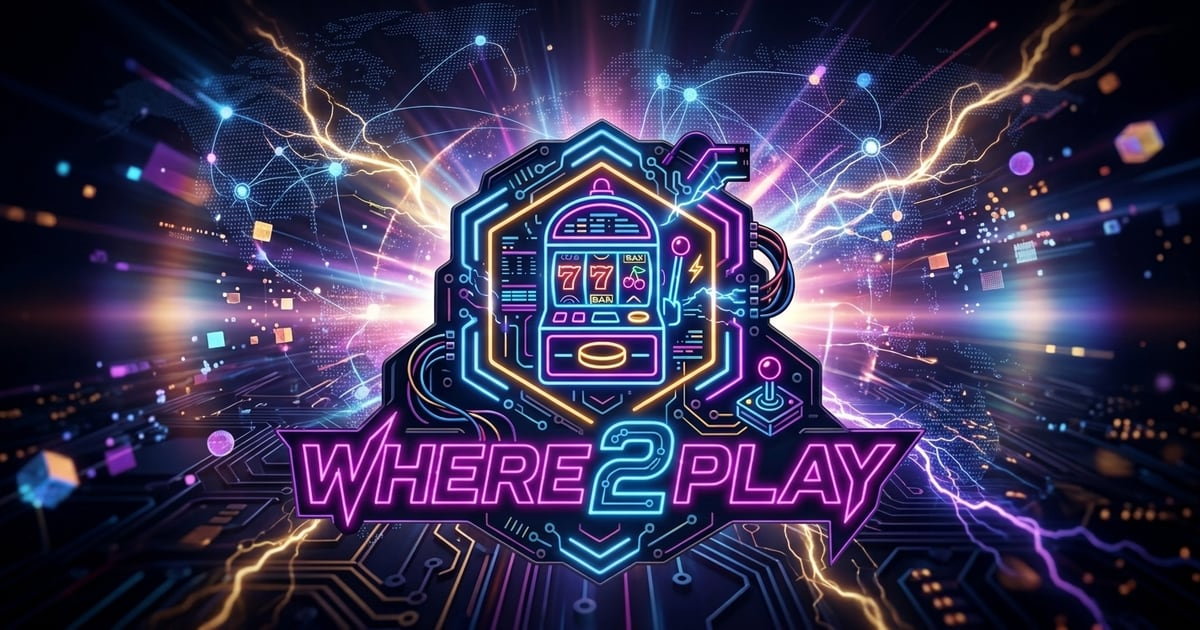
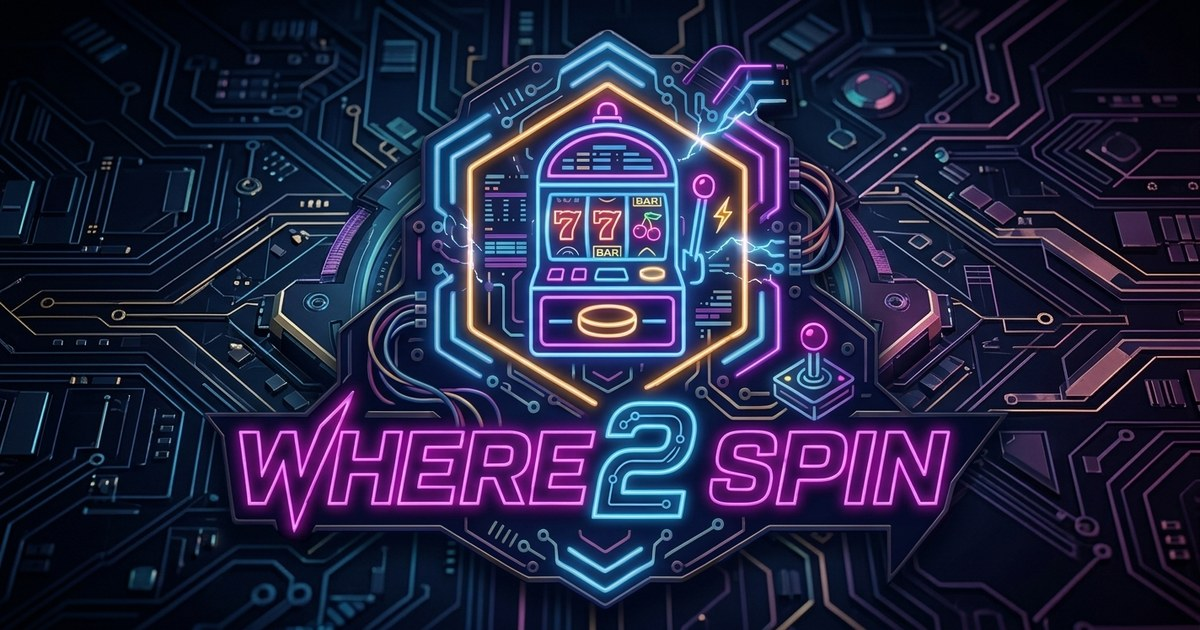
fix(captures): refuser les titres que l'OCR n'a pas su lire, et poser la marque
Un titre de capture était retenu dès qu'une ligne du panneau était en
capitales, sans vérifier que c'étaient des mots. 25 titres sur 17 des 45
pages en ligne étaient du charabia — « Qganvie rullo », « Mve nvlld »,
« K 9 7 a xr fo » — affichés au lecteur et recopiés dans l'attribut alt des
images, donc dans la surface SEO.

Un titre n'est plus retenu que si chacun de ses mots appartient au
vocabulaire des en-têtes Pragmatic ; sinon on retombe sur « Game rules,
page N », qui a le mérite d'être vrai. Les chiffres sont refusés aussi : ils
trahissent une ligne de contenu happée au vol, pas un intitulé. Les 45 fiches
déjà publiées ont été repassées au même filtre en base.

Troisième habillage Pragmatic : les classiques historiques n'ont pas de
panneau de règles du tout, leur table de gains est peinte à côté des
rouleaux et leur RTP n'est affiché nulle part. Ils sont reconnus à leur barre
de commandes et traités comme un résultat acquis, au lieu de repartir en
file échouer à chaque campagne. L'adaptateur renvoyait bien le cas mais le
script ne le distinguait pas de zéro — la détection était restée sans effet.

Les trois visuels de la marque where2spin sont posés : logo transparent
(détourage vérifié sur le fond réel du site, pas de halo), icône d'onglet,
icône iOS sur fond sombre — Apple ne gère pas la transparence et le néon s'y
serait retrouvé sur du blanc — et image de partage recadrée à exactement
1200×630, sans quoi les réseaux coupent le mot-marque.
[…]

diff --git a/src/lib/captures/lecture-regles.ts b/src/lib/captures/lecture-regles.ts
@@ -60,18 +60,63 @@ export interface FaitsLus {
  * quel plutôt que de le deviner — et on le refuse s'il n'a pas l'allure d'un
  * titre, auquel cas la capture gardera un intitulé neutre.
  */
+/*
+ * Le vocabulaire des en-têtes de panneau, chez Pragmatic.
+ *
+ * ── Pourquoi une liste fermée plutôt qu'un dictionnaire ───────────────────
+ *
+ * Un titre était retenu dès qu'une ligne était en capitales, sans jamais
+ * vérifier que c'étaient des mots. L'OCR, lui, rend volontiers des capitales
+ * sur du décor : sur les 45 premiers jeux publiés, **une quinzaine de titres
+ * sur soixante-trois étaient du charabia** — « Qganvie rullo », « Mve nvlld »,
+ * « Itvividll tt lmt vinl », « K 9 7 a xr fo » — affichés en clair au lecteur
+ * et recopiés dans l'attribut `alt` des images, donc dans la surface SEO.
+ *
+ * Le sens de l'erreur compte : un titre inventé se publie, un titre refusé
+ * retombe sur « Game rules, page N », qui est vrai. On refuse donc tout ce
+ * qu'on ne reconnaît pas, quitte à perdre un intitulé correct mais rare —
+ * « Caishen random award » y passera, et ce n'est pas cher payé.
+ */
+const MOTS_DEN_TETE = new Set([
+  'a', 'and', 'ante', 'as', 'autoplay', 'award', 'bar', 'base', 'bet', 'bonus',
+  'buy', 'buying', 'cascading', 'collect', 'collection', 'colossal', 'expanding',
+  'feature', 'features', 'free', 'game', 'games', 'general', 'golden', 'hold',
+  'how', 'high', 'its', 'jackpot', 'jackpots', 'line', 'lines', 'low', 'machine',
+  'max', 'medium', 'mega', 'menu', 'mini', 'modifiers', 'money', 'multiplier',
+  'multipliers', 'nudge', 'options', 'own', 'page', 'pay', 'paylines', 'paytable',
+  'play', 'powernudge', 'purchase', 'random', 'reel', 'reels', 'respin', 'rtp',
+  'rules', 'scatter', 'settings', 'shape', 'slot', 'smash', 'special', 'spin',
+  'spins', 'states', 'sticky', 'studio', 'super', 'symbol', 'symbols', 'the',
+  'to', 'top', 'tumble', 'values', 'very', 'volatility', 'ways', 'wild', 'wilds',
+  'win', 'wins',
+]);
+
+/** Vrai si **chaque** mot est reconnu. Un seul inconnu disqualifie le titre. */
+function vocabulaireTenu(phrase: string): boolean {
+  const mots = phrase.toLowerCase().split(/[^a-z]+/).filter(Boolean);
+  return mots.length > 0 && mots.every((mot) => MOTS_DEN_TETE.has(mot));
+}
+
 function enTete(texte: string): string {
   for (const ligne of texte.split('\n').map((l) => l.trim()).slice(0, 6)) {
     const propre = ligne.replace(/[^A-Za-z0-9 &'-]/g, ' ').replace(/\s+/g, ' ').trim();
     if (propre.length < 4 || propre.length > 40) continue;
+    // Un chiffre dans un en-tête trahit une ligne de contenu happée au vol
+    // (« 25 free spins 20 free spins »), pas un intitulé de section.
+    if (/\d/.test(propre)) continue;
     const lettres = propre.replace(/[^A-Za-z]/g, '');
     if (lettres.length < 4) continue;
     const capitales = (propre.match(/[A-Z]/g) ?? []).length;
-    if (capitales / lettres.length > 0.8) {
+    if (capitales / lettres.length > 0.8 && vocabulaireTenu(propre)) {
       return propre.charAt(0) + propre.slice(1).toLowerCase();
     }
   }
   return '';
+}
+
+/** Le même filtre, applicable à un titre déjà publié. */
+export function titreFiable(titre: string): boolean {
+  return vocabulaireTenu(titre);
 }
 
 const VOLATILITES: Array<[RegExp, FaitsLus['volatilite']]> = [
@@ -99,8 +144,26 @@ function nombre(brut: string): number | null {
  * Le moteur est gardé entre les appels : son initialisation coûte plus cher
  * que la reconnaissance elle-même, et on l'appelle une fois par position
  * essayée.
+ *
+ * ── C'est la **promesse** qui est mémorisée, pas le moteur ────────────────
+ *
+ * Le script capture deux jeux en parallèle. Avec `moteur ??= await créer()`,
+ * les deux appels voient `null` pendant l'attente et en créent chacun un :
+ * le second écrase le premier, qui reste en vie avec son processus fils.
+ * `terminate()` n'en ferme alors qu'un, et **node ne rend jamais la main** —
+ * le script paraissait figé après avoir tout capturé, à 0 % de processeur.
+ *
+ * Mémoriser la promesse la publie **avant** le premier `await` : le second
+ * appel la trouve et l'attend au lieu d'ouvrir un second moteur.
  */
-let ouvrierPartage: Awaited<ReturnType<typeof createWorker>> | null = null;
+let ouvrierPartage: ReturnType<typeof createWorker> | null = null;
+
+type Bande = 'haut' | 'bas';
+
+const BANDES: Record<Bande, { left: number; top: number; width: number; height: number }> = {
+  haut: { left: 0, top: 30, width: 1280, height: 190 },
+  bas: { left: 0, top: 630, width: 1280, height: 170 },
+};
 
 /**
  * Lit la **bande haute** d'une capture. Sert à reconnaître ce qui est ouvert.
@@ -111,25 +174,33 @@ let ouvrierPartage: Awaited<ReturnType<typeof createWorker>> | null = null;
  * ajoutées sur le catalogue Pragmatic. La bande suffit : tout ce qu'on
  * cherche s'y trouve, l'en-tête « GAME RULES » (y≈62 sur l'habillage large,
  * y≈96 sur l'étroit) comme le bouton « BUY FREE SPINS » (y≈165).
+ *
+ * La bande basse sert à autre chose : reconnaître la barre de commandes de
+ * l'habillage historique, qui n'a pas de panneau de règles du tout.
  */
-export async function lireLEcran(cheminPng: string): Promise<string> {
-  ouvrierPartage ??= await createWorker('eng');
+export async function lireLEcran(
+  cheminPng: string,
+  bande: Bande = 'haut',
+): Promise<string> {
+  ouvrierPartage ??= createWorker('eng');
+  const ouvrier = await ouvrierPartage;
   const prepare = await sharp(cheminPng)
-    .extract({ left: 0, top: 30, width: 1280, height: 190 })
+    .extract(BANDES[bande])
     .grayscale()
     .normalise()
     .resize({ width: 1920 })
     .png()
     .toBuffer();
-  const { data } = await ouvrierPartage.recognize(prepare);
+  const { data } = await ouvrier.recognize(prepare);
   return data.text;
 }
 
 /** Libère le moteur partagé. À appeler en fin de campagne. */
 export async function fermerLeLecteur(): Promise<void> {
-  if (!ouvrierPartage) return;
-  await ouvrierPartage.terminate();
+  const en_cours = ouvrierPartage;
+  if (!en_cours) return;
   ouvrierPartage = null;
+  await (await en_cours).terminate();
 }
 
 /**
@@ -139,6 +210,20 @@ export async function fermerLeLecteur(): Promise<void> {
  * c'est le même critère, il ne doit pas diverger.
  */
 export const EN_TETE_PANNEAU = /RTP|GAME RULES|PAYTABLE/i;
+
+/**
+ * La barre de commandes de l'habillage **historique** de Pragmatic.
+ *
+ * Ces classiques n'ont pas de panneau de règles : la table de gains est
+ * peinte en permanence à côté des rouleaux, et l'engrenage n'ouvre que le son
+ * et le tour rapide. Il n'y a donc **aucun RTP à lire dans le jeu**.
+ *
+ * Les reconnaître n'est pas un confort. Sans ça, ils échouent à l'ouverture
+ * du panneau, repartent en file, et sont rechargés à chaque campagne pour
+ * échouer encore — alors que leur capture de base contient déjà toute leur
+ * table de gains.
+ */
+export const BARRE_HISTORIQUE = /COIN VALUE|TOTAL BET|SELECT LINES|BET MAX/i;
 
 export async function lireLesRegles(cheminsPng: string[]): Promise<FaitsLus> {
   const ouvrier = await createWorker('eng');

diff --git a/src/lib/captures/adaptateurs.ts b/src/lib/captures/adaptateurs.ts
@@ -24,7 +24,10 @@
  */
 import type { Page } from 'playwright';
 
-import { EN_TETE_PANNEAU } from './lecture-regles';
+/** Le jeu n'a pas de panneau de règles, et n'en aura jamais : c'est acquis. */
+export const SANS_PANNEAU = -1;
+
+import { BARRE_HISTORIQUE, EN_TETE_PANNEAU } from './lecture-regles';
 
 export interface Adaptateur {
   studio: string;
@@ -36,6 +39,10 @@ export interface Adaptateur {
    * Ouvre le panneau de règles et renvoie le nombre de captures prises —
    * les doublons en sont écartés plus loin, sur comparaison d'images.
    *
+   * Renvoie `SANS_PANNEAU` pour un jeu qui n'en a pas **par conception** :
+   * c'est un résultat, pas un échec, et le distinguer de 0 évite de remettre
+   * indéfiniment en file un jeu qui n'aura jamais rien de plus à donner.
+   *
    * `lireLEcran` rend le texte de ce qui est affiché à l'instant. Sans lui,
    * l'adaptateur cliquerait à l'aveugle — c'est ce qu'il faisait, et il
    * capturait sept fois le jeu de base en croyant feuilleter les règles.
@@ -44,14 +51,14 @@ export interface Adaptateur {
   capturerLesRegles(
     page: Page,
     cliche: (nom: string) => Promise<void>,
-    lireLEcran: () => Promise<string>,
+    lireLEcran: (bande?: 'haut' | 'bas') => Promise<string>,
   ): Promise<number>;
 
   /** Ouvre la boîte d'achat de bonus. Renvoie faux si le jeu n'en propose pas. */
   capturerLAchat(
     page: Page,
     cliche: (nom: string) => Promise<void>,
-    lireLEcran: () => Promise<string>,
+    lireLEcran: (bande?: 'haut' | 'bas') => Promise<string>,
   ): Promise<boolean>;
 }
 
@@ -142,7 +149,21 @@ export const PRAGMATIC: Adaptateur = {
       await page.keyboard.press('Escape');
       await page.waitForTimeout(800);
     }
-    if (large === null) return 0;
+    if (large === null) {
+      /*
+       * Un troisième habillage existe, et il n'a pas de panneau du tout.
+       *
+       * Les classiques historiques (888 Gold et sa famille) peignent leur
+       * table de gains en permanence à côté des rouleaux, sous une barre de
+       * commandes grise ; l'engrenage n'ouvre que le son et le tour rapide.
+       * Leur capture de base contient donc déjà toute leur documentation —
+       * et leur RTP n'est affiché nulle part, donc on n'en écrira aucun.
+       *
+       * Les confondre avec un échec de recherche les renvoyait en file à
+       * chaque campagne, pour un rechargement complet et le même échec.
+       */
+      return BARRE_HISTORIQUE.test(await lireLEcran('bas')) ? SANS_PANNEAU : 0;
+    }
 
     /*
      * Sept captures, quel que soit l'habillage — mais pas par le même moyen.

diff --git a/scripts/capturer-jeux.ts b/scripts/capturer-jeux.ts
@@ -33,7 +33,7 @@ import { mkdirSync, rmSync } from 'node:fs';
 import { basename, join, resolve } from 'node:path';
 import { chromium, type Browser } from 'playwright';
 import sharp from 'sharp';
-import { ADAPTATEURS } from '../src/lib/captures/adaptateurs';
+import { ADAPTATEURS, SANS_PANNEAU } from '../src/lib/captures/adaptateurs';
 import {
   EN_TETE_PANNEAU,
   fermerLeLecteur,
@@ -110,6 +110,7 @@ async function capturerUnJeu(
   mkdirSync(dossier, { recursive: true });
   const pngRegles: string[] = [];
   const fichiers: string[] = [];
+  let sansPanneau = false;
 
   const cliche = async (nom: string) => {
     const png = join(dossier, `${nom}.png`);
@@ -142,6 +143,14 @@ async function capturerUnJeu(
       await page.close();
       return null;
     }
+    /*
+     * `SANS_PANNEAU` n'est pas un échec : c'est un jeu dont l'habillage n'a
+     * pas de panneau de règles du tout, et dont la table de gains est déjà
+     * dans la capture de base. Il faut le distinguer, sinon le contrôle
+     * « le panneau s'est-il ouvert ? » plus bas le renvoie en file — et il
+     * revient échouer à chaque campagne, pour un rechargement complet.
+     */
+    sansPanneau = pages === SANS_PANNEAU;
     await adaptateur.capturerLAchat(page, cliche, regarder);
     rmSync(sonde, { force: true });
   } catch (e) {
@@ -194,7 +203,7 @@ async function capturerUnJeu(
    * panneau de règles : sa présence prouve qu'on y est entré.
    */
   const panneauOuvert = faits.pages.some((p) => EN_TETE_PANNEAU.test(p.texte));
-  if (!panneauOuvert) {
+  if (!panneauOuvert && !sansPanneau) {
     console.log(`  ! ${jeu.slug} — panneau de règles jamais atteint, jeu laissé en file`);
     return null;
   }

diff --git a/src/components/EnTete.tsx b/src/components/EnTete.tsx
@@ -74,7 +74,7 @@ export function EnTete() {
            */}
           {/* eslint-disable-next-line @next/next/no-img-element */}
           <img
-            src="/images/marque-w2p.webp"
+            src="/images/marque-w2s.webp"
             alt="where2spin"
             className="-mb-[24px] h-[82px] w-auto shrink-0 sm:-mb-[38px] sm:h-[110px]"
           />

diff --git a/src/components/PiedDePage.tsx b/src/components/PiedDePage.tsx
@@ -25,7 +25,7 @@ export function PiedDePage() {
              */}
             {/* eslint-disable-next-line @next/next/no-img-element */}
             <img
-              src="/images/marque-w2p.webp"
+              src="/images/marque-w2s.webp"
               alt="where2spin"
               className="mb-3 h-[86px] w-auto"
             />

diff --git a/CHANGELOG.md b/CHANGELOG.md
@@ -2,6 +2,48 @@
 
 Ce qui a été fait, pourquoi, et les pièges rencontrés. Une entrée par commit.
 
+## 2026-09-10 — Du charabia d'OCR publié en titre sur 17 pages
+
+Le titre d'une capture était retenu dès qu'une ligne du panneau était en
+capitales, sans jamais vérifier que c'étaient des mots. L'OCR, lui, rend
+volontiers des capitales sur du décor.
+
+Résultat, en ligne, dans des intitulés visibles **et dans l'attribut `alt` des
+images** — donc dans la surface SEO :
+
+    Qganvie rullo · Ganic ruled · Mve nvlld · Et tet a · Tas attn fa vt
+    4 t4 j tg · Livin rcell dvuinuvo · Itvividll tt lmt vinl · K 9 7 a xr fo
+    Eapanding wild with multiplier
+
+**25 titres sur 17 des 45 pages publiées.** Un titre n'est plus retenu que si
+**chacun de ses mots** appartient au vocabulaire des en-têtes Pragmatic ; sinon
+on retombe sur « Game rules, page N », qui a le mérite d'être vrai. Les chiffres
+dans un en-tête sont refusés aussi : ils trahissent une ligne de contenu happée
+au vol (« 25 free spins 20 free spins »), pas un intitulé de section.
+
+Le sens de l'erreur est ce qui compte : un titre inventé se publie, un titre
+refusé retombe sur un générique. On perd donc « Caishen random award », correct
+mais rare — et c'est le seul faux positif sur les 45 jeux.
+
+Les 45 fiches déjà en ligne ont été repassées au même filtre en base. Aucune
+recapture nécessaire, et aucun build consommé : les fiches lisent Prisma.
+
+## 2026-09-10 — Un troisième habillage Pragmatic, qui n'a pas de panneau
+
+Les classiques historiques (888 Gold et sa famille) peignent leur table de
+gains en permanence à côté des rouleaux, sous une barre de commandes grise.
+L'engrenage n'ouvre que le son et le tour rapide : **il n'y a pas de panneau de
+règles, et le RTP n'est affiché nulle part**.
+
+Les confondre avec un échec de recherche les renvoyait en file à chaque
+campagne, pour un rechargement complet et le même échec — alors que leur
+capture de base contient déjà toute leur documentation. Ils sont maintenant
+reconnus à leur barre de commandes et traités comme un résultat acquis :
+capture de base publiée, aucun RTP inventé, plus de repassage.
+
+⚠ Attrapé en relisant : l'adaptateur renvoyait bien le cas, mais le script ne
+le distinguait pas de zéro — la détection était donc restée sans effet.
+
 ## 2026-09-10 — Le site s'appelle where2spin
 
 `where2play.com` et `.net` sont pris, et le `.net` n'est pas dormant : c'est un
